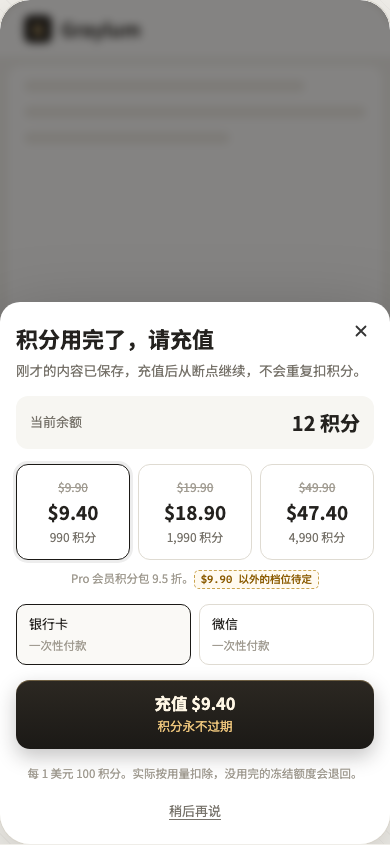
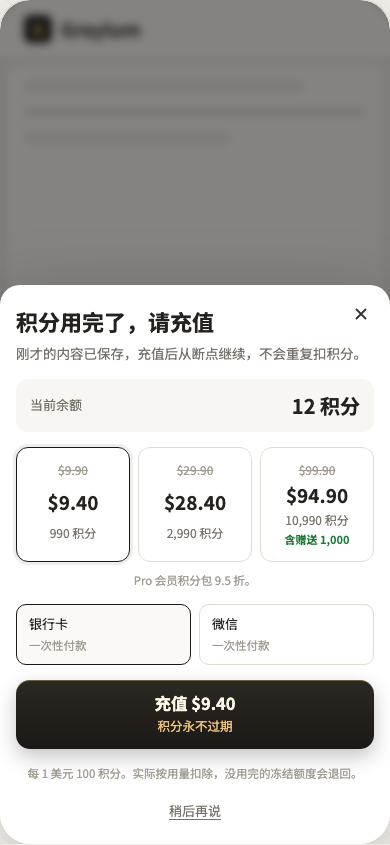
docs(plan): 付费墙定稿更新为 v23，写入积分包三档和注册赠送（记录 S、T）
- paywall-final-v21.html 改名为 v23 并替换为 v23 内容（版本号 1791122683-97ab）
- 按 v23 重拍场景 3（充值）和价格页截图，其余截图沿用 v21
- 第 51 项写入积分包三档、会员价向下取整到 $0.10、注册赠送 500 积分（先定）
- 版本号全部改为 v23；仍待定只剩创始人寄语

diff --git a/docs/launch/design/paywall/paywall-final-v23.html b/docs/launch/design/paywall/paywall-final-v23.html
@@ -249,6 +249,7 @@ button,input,select,textarea{font:inherit}
 .form .fh{margin:6px 0 -2px;padding-top:8px;border-top:1px solid var(--p-line);font-size:12px;font-weight:600;letter-spacing:.04em;color:var(--gold-deep)}
 .form .fh:first-child{border-top:0;padding-top:0;margin-top:0}
 .form .lt{display:block}
+.pk .bonus{font-style:normal;font-size:11px;color:var(--save);font-weight:600}
 .form .share{margin:0;padding:10px 12px;border-radius:10px;background:#f6f3ec;color:#5d584f;font-size:12.5px;line-height:1.6}
 .form i.rq{font-style:normal;color:#c0533a}
 .form i.op{font-style:normal;font-size:11px;font-weight:400;color:var(--p-faint)}
@@ -457,9 +458,9 @@ button,input,select,textarea{font:inherit}
   <header class="top">
     <div>
       <h1>Graylum 付费墙 v2</h1>
-      <p><b>唯一版本来源</b>（取代设计窗口的定稿 QLdBcaYM…，那份留作历史）。八个触发场景，价格都是 Owner 定的实际售价；只有注册赠送积分和 $9.90 以外的积分包档位还是占位。标"待定"的是本轮新提的方案，等 Owner 确认。</p>
+      <p><b>唯一版本来源</b>（取代设计窗口的定稿 QLdBcaYM…，那份留作历史）。八个触发场景，价格都是 Owner 定的实际售价；注册赠送 500 积分、积分包三档已于 10-04 定（实测后可能再调）。标"待定"的是本轮新提的方案，等 Owner 确认。</p>
     </div>
-    <span class="ver">唯一版本 v21 · 更新于 2026-10-04 · 不含产品代码</span>
+    <span class="ver">唯一版本 v23 · 更新于 2026-10-04 · 不含产品代码</span>
   </header>
 
   <div class="controls">
@@ -499,7 +500,7 @@ button,input,select,textarea{font:inherit}
           <tr><td>定位档案</td><td>免费 1 个、Pro 3 个、Gold 6 个。一个档案 = 一个品牌；每个平台挂 1 个账号，平台数不限；降级后超出额度的档案只读。</td></tr>
           <tr><td>工作室版、真人专家咨询</td><td>价格页两张并排的大卡片，写买家关心的事。工作室版 10 个品牌、5 位成员起，上线时只放"联系我们"；专家咨询只做预约入口，Owner 本人做专家，线上远程会议 $300/小时起，会员不打折，咨询费用 Stripe 或线下收。</td></tr>
           <tr><td>不做</td><td>7 天退款保证、假原价、会重置的倒计时、虚构的用户数或效果承诺。</td></tr>
-          <tr><td>仍是占位</td><td>注册赠送积分、积分包 $9.90 以外的档位。</td></tr>
+          <tr><td>注册赠送 / 积分包档位（10-04 定）</td><td>注册送 500 积分。积分包三档：$9.90 / 990 积分、$29.90 / 2,990 积分、$99.90 / 9,990 + 赠送 1,000 = 10,990 积分；会员折扣打在价格上，折后价向下抹到角（如 $9.41 收 $9.40）。开发完成后 Owner 实测再决定是否调整。</td></tr>
         </tbody>
       </table></div>
     </div>
@@ -791,14 +792,14 @@ function midway(){
 
 /* scene 3: member out of credits */
 function topup(){
-  const off=PACK_OFF[S.tier], base=[[9.9,990],[19.9,1990],[49.9,4990]];
-  const packs=base.map(([p,c])=>[p,+(p*off).toFixed(2),c]);
+  const off=PACK_OFF[S.tier], base=[[9.9,990,0],[29.9,2990,0],[99.9,9990,1000]];
+  const packs=base.map(([p,c,b])=>[p,Math.floor(p*off*10+1e-6)/10,c+b,b]);
   if(S.paid) return narrow(`<div class="done"><span class="ok">${IC.ck('#2f6a3b')}</span><h3 id="dlg-t">+${num(packs[S.pack][2])} 积分已到账</h3><p>可以接着刚才的内容继续了。</p></div><button class="cta" type="button" data-close><b>继续</b><span>回到刚才的位置</span></button>`);
   return narrow(`<h2 id="dlg-t">积分用完了，请充值</h2>
     <p class="lede">刚才的内容已保存，充值后从断点继续，不会重复扣积分。</p>
     <div class="bal"><span>当前余额</span><b>12 积分</b></div>
-    <div class="packs" role="radiogroup" aria-label="积分包">${packs.map(([p,now,c],i)=>`<label class="pk"><input type="radio" name="pack" id="pk-${i}" value="${i}" ${S.pack===i?'checked':''}><s>${money(p)}</s><b>${money(now)}</b><span>${num(c)} 积分</span></label>`).join('')}</div>
-    <p class="fine" style="margin-top:-6px">${S.tier==='gold'?'Gold 会员积分包 9 折':'Pro 会员积分包 9.5 折'}。<span class="chip">$9.90 以外的档位待定</span></p>
+    <div class="packs" role="radiogroup" aria-label="积分包">${packs.map(([p,now,c,b],i)=>`<label class="pk"><input type="radio" name="pack" id="pk-${i}" value="${i}" ${S.pack===i?'checked':''}><s>${money(p)}</s><b>${money(now)}</b><span>${num(c)} 积分${b?`<br><em class="bonus">含赠送 ${num(b)}</em>`:''}</span></label>`).join('')}</div>
+    <p class="fine" style="margin-top:-6px">${S.tier==='gold'?'Gold 会员积分包 9 折':'Pro 会员积分包 9.5 折'}。</p>
     <div class="pay" role="radiogroup" aria-label="付款方式"><label><input type="radio" name="tpay" id="tp-card" value="card" checked>银行卡<small>一次性付款</small></label><label><input type="radio" name="tpay" id="tp-wx" value="wx">微信<small>一次性付款</small></label></div>
     <button class="cta" type="button" id="paynow"><b>充值 ${money(packs[S.pack][1])}</b><span>积分永不过期</span></button>
     <p class="fine">每 1 美元 100 积分。实际按用量扣除，没用完的冻结额度会退回。</p>
@@ -957,7 +958,7 @@ function pricing(){
     </div>
     <div class="bill" role="radiogroup" aria-label="计费周期"><label><input type="radio" name="pbill" id="pb-m" value="month" ${!y?'checked':''}>月付</label><label><input type="radio" name="pbill" id="pb-y" value="year" ${y?'checked':''}>年付 <span class="save">${yearBadge()}</span></label></div>
     <div class="tiers">
-      <div class="tier"><h3>免费</h3><p class="who">先体验，看看它懂不懂你</p><div class="pr"><b>$0</b></div><div class="was">注册即送体验积分 <span class="chip">数量待定</span></div>
+      <div class="tier"><h3>免费</h3><p class="who">先体验，看看它懂不懂你</p><div class="pr"><b>$0</b></div><div class="was">注册即送 500 积分</div>
         <h4>可以做</h4><ul><li>${IC.ck()}<span>做完报告前的全部定位步骤</span></li><li>${IC.ck()}<span>查看、导出已确认的定位信息</span></li><li>${IC.ck()}<span>1 个定位档案</span></li><li>${IC.ck()}<span>客服 48 小时内回复</span></li></ul>
         <h4>不包含</h4><ul><li class="no">${IC.dash()}<span>完整运营策略报告</span></li><li class="no">${IC.dash()}<span>购买积分包</span></li><li class="no">${IC.dash()}<span>多模型专家评审团</span></li></ul>
         <button class="btn" type="button">免费开始</button></div>

diff --git a/docs/launch/MASTER_PLAN.md b/docs/launch/MASTER_PLAN.md
@@ -402,7 +402,7 @@
         - **FUSION-COMPARE**：对比默认勾选、用户可改、最少勾选数参数。
         - **不对应开发任务**：默认 m=6 是后台配置修改，执行前另获 Owner 批准（第 39 项的做法）；会员余额不足时的暂停和继续沿用 BILL-PAYG；积分不过期和退款规则沿用现有规则；取消封闭内测体现在第 7.2、7.4 节的排期里，发布仍走 V3-M3 → REL-1；首发目标用户用于宣传和落地页文案。
 
-51. **定价、付费墙细则和定位档案数量**（Owner 2026-10-04；#618 合并后由总控记在 #618 评论里，每条都附原话，下文按"记录 X"引用）。多数决定是 Owner 在定价策略审阅窗口做的、由该窗口转述原话，记录 J、M、N、O 是 Owner 在总控窗口的原话；记录 P 是总控对 Owner 更正的整理，评论里没有附原话；记录 Q 是定价窗口逐字转述的原话，记录 R 是 Owner 在总控窗口的确认。同一事项前后不一致时以较晚的记录为准，下面逐条注明被取代的写法。付费墙设计的唯一依据是仓库里的 [`docs/launch/design/paywall/`](design/paywall/README.md)：Owner 定稿的 v21（artifact `MW9Ja3xTfLNbzraTudi2X7` 第 32 版，版本号 `1791121307-3d47`；2026-10-04 导出的 HTML 和 9 个场景的桌面、手机截图），README 记有场景清单、Owner 的文案规则和仍待定的事项；artifact 只是来源，实施以仓库里的导出为准。原 PAYWALL-DESIGN 定稿 `QLdBcaYMUSRQHa1YPQa2VQ` 只留作历史，不再作为实施依据（记录 M）。本项只改规划；staging 和正式环境的价格、套餐、积分包、会员权限和 Waffo 产品配置，实际修改前仍须 Owner 另行批准。
+51. **定价、付费墙细则和定位档案数量**（Owner 2026-10-04；#618 合并后由总控记在 #618 评论里，每条都附原话，下文按"记录 X"引用）。多数决定是 Owner 在定价策略审阅窗口做的、由该窗口转述原话，记录 J、M、N、O 是 Owner 在总控窗口的原话；记录 P 是总控对 Owner 更正的整理，评论里没有附原话；记录 Q 是定价窗口逐字转述的原话，记录 R 是 Owner 在总控窗口的确认；记录 S、T 是定价窗口逐字转述的原话。同一事项前后不一致时以较晚的记录为准，下面逐条注明被取代的写法。付费墙设计的唯一依据是仓库里的 [`docs/launch/design/paywall/`](design/paywall/README.md)：Owner 定稿的 v23（artifact `MW9Ja3xTfLNbzraTudi2X7` 第 34 版，版本号 `1791122683-97ab`，[记录 T](https://github.com/Crnobog9527/GraylumAI_vercel/pull/618#issuecomment-5980843167)；2026-10-04 导出的 HTML 和 9 个场景的桌面、手机截图，其中场景 3 和价格页按 v23 重拍，其余截图来自 v21，v22、v23 只改了这两处），README 记有场景清单、Owner 的文案规则和仍待定的事项；artifact 只是来源，实施以仓库里的导出为准。原 PAYWALL-DESIGN 定稿 `QLdBcaYMUSRQHa1YPQa2VQ` 只留作历史，不再作为实施依据（记录 M）。本项只改规划；staging 和正式环境的价格、套餐、积分包、会员权限和 Waffo 产品配置，实际修改前仍须 Owner 另行批准。
 
     记录出处（均为 [#618](https://github.com/Crnobog9527/GraylumAI_vercel/pull/618) 的总控评论，按时间）：
     [B 门槛原则](https://github.com/Crnobog9527/GraylumAI_vercel/pull/618#issuecomment-5971895597)、
@@ -421,7 +421,9 @@
     [O 创始价取整](https://github.com/Crnobog9527/GraylumAI_vercel/pull/618#issuecomment-5976467607)、
     [P 创始价更正和报告改名](https://github.com/Crnobog9527/GraylumAI_vercel/pull/618#issuecomment-5979988044)、
     [Q v21 定稿中的其余决定](https://github.com/Crnobog9527/GraylumAI_vercel/pull/618#issuecomment-5980762284)、
-    [R 创始会员徽章和专家授权](https://github.com/Crnobog9527/GraylumAI_vercel/pull/618#issuecomment-5980780017)。
+    [R 创始会员徽章和专家授权](https://github.com/Crnobog9527/GraylumAI_vercel/pull/618#issuecomment-5980780017)、
+    [S 积分包三档和注册赠送](https://github.com/Crnobog9527/GraylumAI_vercel/pull/618#issuecomment-5980831854)、
+    [T 积分包会员价抹掉分位](https://github.com/Crnobog9527/GraylumAI_vercel/pull/618#issuecomment-5980843167)。
     合并记录（[A](https://github.com/Crnobog9527/GraylumAI_vercel/pull/618#issuecomment-5970619921)）另记 Owner 确认积分有效期维持原规则：积分永不过期，只有会员等级会过期。
 
     Owner 原话（摘录，完整原话见各记录）：
@@ -456,6 +458,10 @@
 
     > 后端是没有这个同意开关的。 暂时所有用户的数据只能由他导出来，然后给我们才能看。（记录 Q）
 
+    > 积分包就按你的建议设三档。然后注册先定送 500 积分。（记录 S）
+
+    > 积分包折扣以后的价格，四舍五入向下归零。9.41 就收 9.4，8.91 就收 8.9。好吧，最后那一分钱就不要了。（记录 T）
+
     整理（总控记录和唯一来源设计稿的含义，不是 Owner 原话）：
 
     - **月付**（记录 F）：Pro $29/月、Gold $69/月，这是实际售价。每月积分 = 售价 × 每美元积分：Pro 3,480（×120）、Gold 8,970（×130）。取代第 50 项"数值怎么定"中"月价 = 实测用量 ÷ 每美元积分"的算法。
@@ -467,6 +473,16 @@
     - **不做的营销手法**（记录 E、F）：不提供 7 天退款保证（沿用"默认不退款、可人工例外"）；不做"抬高原价再打折"，不做会重置的倒计时；紧迫感只来自真实名额，以及年付划掉月付 × 12 的真实价格。如果做倒计时，只能对应一个真实、固定的截止时间。
     - **续费说明和弹窗**（记录 E、G；唯一来源设计稿）：每个付款按钮旁写首期价、之后的续费价和周期、怎么取消。付费墙的各个触发场景都用弹窗（价格页是独立页面）；弹窗默认选中月付。
     - **积分包**（记录 B、C、J；第 50 项其余规则不变）：只卖给会员，每 1 美元 100 积分，最小 $9.90。无论买多少次积分包，系统都不提示升级会员，取消第 50 项"Pro 一个月买 2 次以上积分包时提示 Gold"。会员买积分包打折（[记录 Q](https://github.com/Crnobog9527/GraylumAI_vercel/pull/618#issuecomment-5980762284)）：Pro 会员 9.5 折、Gold 会员 9 折；取代"Gold 积分包折扣比例等算完成本再定"（9 折在记录 B 提示的约 23% 上限之内）。
+    - **积分包三档和注册赠送**（[记录 S](https://github.com/Crnobog9527/GraylumAI_vercel/pull/618#issuecomment-5980831854)、[记录 T](https://github.com/Crnobog9527/GraylumAI_vercel/pull/618#issuecomment-5980843167)；先定，Owner 在开发完、实测积分消耗后再决定要不要调整加价倍数、积分包和注册赠送；定价窗口提过的调整办法 Owner 都还没有定，不作为决定）：
+
+        | 档位 | 原价 | 积分 | Pro 会员（9.5 折） | Gold 会员（9 折） |
+        | --- | --- | --- | --- | --- |
+        | 小 | $9.90 | 990 | $9.40 | $8.90 |
+        | 中 | $29.90 | 2,990 | $28.40 | $26.90 |
+        | 大 | $99.90 | 9,990 + 赠送 1,000 = 10,990 | $94.90 | $89.90 |
+
+        积分按原价每 1 美元 100 积分；会员折扣打在价格上，会员价 = 原价 × 折扣，向下取整到 $0.10（记录 T；取代记录 S 的"四舍五入到分"，记录 S 表中的 $9.41 / $8.91 等价格已由记录 T 取代）；只有大档有赠送。每一档的积分单价都比订阅贵（最便宜的 Gold 买大档约 $8.18/千积分，Gold 订阅约 $7.69/千积分），毛利约 72%–77%，是定价窗口的估算。
+        注册赠送 500 积分（记录 S），取代"数量待定"和第 50 项"开户赠送 = Owner 实测后按公式定"；staging 迁移 0151 现在写死的是 100，改成 500 要走单独的数据库迁移（high），合并前需要 Owner 批准。
     - **客服响应时效**（[记录 Q](https://github.com/Crnobog9527/GraylumAI_vercel/pull/618#issuecomment-5980762284)）：免费 48 小时内、Pro 24 小时内、Gold 工作时间内 2 小时内回复。
     - **Gold 优先内测**（[记录 Q](https://github.com/Crnobog9527/GraylumAI_vercel/pull/618#issuecomment-5980762284)）：Gold 会员优先体验内测中的新功能。
     - **多平台发布和数据监控提前到上线前**（[记录 Q](https://github.com/Crnobog9527/GraylumAI_vercel/pull/618#issuecomment-5980762284)）：上线前接入 Post for Me（海外 9 个平台，第 52 项），上线多平台发布和数据监控，并按会员档位区分：Pro 有一键发布和自己作品近 30 天的数据；Gold 另加对标账号监控、90 天趋势、每周自动复盘；两档都按积分计费、不限条数。**这改变了 D1 的上线范围**（第 10 节 D1），由新任务 PUBLISH-MONITOR 负责（第 7.1 节）。
@@ -475,7 +491,7 @@
     - **多模型专家评审团**（记录 D、E、J）：Fusion 对外改名"多模型专家评审团"，产品内部仍叫 Fusion。评审和对比两种模式都只给 Gold，免费和 Pro 都不能用，取代 D4 里"Pro：评审和对比两种模式都能用"。对外只标"Gold 专属"，不用"只有 Gold 能用"的说法；宣传和付费墙要突出它的优势。价格页、方案卡和弹窗里的"报告评审"按评审模式的后台实际开关自动显示或隐藏（D12：实测不通过就关闭上线），"多模型对比"同样跟随对比开关。ENTITLEMENTS 的默认值（`allow_fusion_review`、`allow_fusion_compare`）在实施时相应调整，实际修改配置前单独批准。
     - **报告对外名称**（记录 P）：报告对外改叫"运营策略报告"，取代"定位报告"。只改对外名称和界面文案，不改代码标识符。
     - **只显示已上线的功能**（记录 J）：价格页、方案卡和弹窗的功能行跟随后台开关自动显示或隐藏；资料库上传上线前不显示资料库容量。
-    - **Pro 中途升 Gold**（[记录 Q](https://github.com/Crnobog9527/GraylumAI_vercel/pull/618#issuecomment-5980762284)，取代记录 J"差价交给 Waffo 支付任务定"）：不退差价（订阅本质上是更便宜的积分，Pro 当期积分已经到账、照样能用）；升级后往账上再发 8,970 积分，并立即升级为 Gold 权益。付款按 Gold 的价格（第一次买 Gold 享首月 $49，设计稿 v21）。这条规则已由 Owner 定，PAY-WAFFO 按它实施；只有升级时计费周期怎么衔接（是否重置续费日）由 PAY-WAFFO 方案提出、Owner 批准后实施。
+    - **Pro 中途升 Gold**（[记录 Q](https://github.com/Crnobog9527/GraylumAI_vercel/pull/618#issuecomment-5980762284)，取代记录 J"差价交给 Waffo 支付任务定"）：不退差价（订阅本质上是更便宜的积分，Pro 当期积分已经到账、照样能用）；升级后往账上再发 8,970 积分，并立即升级为 Gold 权益。付款按 Gold 的价格（第一次买 Gold 享首月 $49，设计稿 v21 起）。这条规则已由 Owner 定，PAY-WAFFO 按它实施；只有升级时计费周期怎么衔接（是否重置续费日）由 PAY-WAFFO 方案提出、Owner 批准后实施。
     - **模型**：不变。模型按用途在后台配置，不按会员档位区分，输入框模型位置只显示 Auto（第 50 项）。
     - **定位档案数量**（记录 B、K）：免费 1 个、Pro 3 个、Gold 6 个；取代记录 B 的"会员不限、只留系统防滥用上限"。一个档案对应一个品牌，即现有的 `opc_businesses`；同一品牌下的定位版本、历史和报告不另算。每个档案在每个平台最多挂 1 个账号，平台数不限；实施时在 `opc_accounts` 现有的 `UNIQUE(actor_id, platform, account_key)` 之外，加"每个业务每个平台 1 个"的约束，新建档案时可以先不挂账号，挂上后锁定在这个档案。只计正在用的档案，删除后释放名额；现在没有业务级的删除或归档功能，由 PAYWALL 补上"删除或归档定位档案并释放名额"（删除遵守 DATA-ERASURE 的保留规则；技术建议用归档：归档后只读、可导出、不占名额，具体由 PAYWALL 方案定）。服务端在新建业务时检查（现在 `opc.start` 每次都新建业务，没有任何上限）；数量检查和插入 `opc_businesses` 要在同一个按用户加锁的数据库事务里完成（现有 `opc_start_b1` 插入不按用户串行，只先查数量会被并发请求同时越过），属于高风险迁移。会员到期或降级后，超出额度的档案改为只读（可看、可导出），由用户自己选哪几个继续可用。接受"在同一档案里反复改写"这个残余漏洞，不做内容检测。
     - **工作室版**（记录 K、L）：方向同意。上线时价格页只放"联系我们"入口，由 Owner 手动接单，超出额度的客户在后台单独调高上限；团队功能上线后再开发。方向是：10 个品牌起、5 位成员起，可以按需增加席位（[记录 Q](https://github.com/Crnobog9527/GraylumAI_vercel/pull/618#issuecomment-5980762284)，取代"20 个档案起"）；团队共享积分池，按成员和客户统计用量；按客户隔离资料库、文风和报告；报告可换成工作室品牌导出；客户不用注册就能看的只读分享链接；含多模型专家评审团；优先支持；按量计价，单价更低。不定公开价格，按 B 端用户的用量灵活报价（[记录 Q](https://github.com/Crnobog9527/GraylumAI_vercel/pull/618#issuecomment-5980762284)；记录 L 的 $199/月、每美元 140 积分作废）。
@@ -485,7 +501,7 @@
     - **Waffo 实施做法**（记录 I，定价窗口的建议，PAY-WAFFO 实施时核实）：Waffo 后台没有优惠券功能，按价格分别建 Waffo 产品：Gold 月付新用户（首期 $49、之后 $69）、Gold 月付正价 $69、微信一次性 1 个月 Gold 新用户 $49 和正价 $69、Gold 创始会员年付（首年 $496，续费按续费时 Gold 月付 12 个月价格的 6 折，不写死，记录 P），其余按原计划。Waffo 订阅文档写明支持"前 N 期特价、之后自动恢复原价"，具体配置位置和创始会员的长期折扣价能否设置，在 PAY-WAFFO 中核实（Owner 在后台找或问 Waffo）。由服务端选择产品，前端只显示服务端返回的价格；为防止注销后重新注册或并发结账重复领 $49：0151 的身份摘要（`opening_grant_identity_digests`，`purpose` 只允许 `opening_grant`）只记录开户赠送的判定，不能用来判断是否买过 Gold，不直接复用；PAY-WAFFO 扩展同一套身份摘要机制，新增 Gold 专属的权威事实（例如 `purpose=gold_first_purchase`），具备原子的预留和认领语义，属于 high 迁移。首月优惠的预留同样按结账会话幂等记录；只有 Waffo 权威确认该会话已关闭或已过期才释放（[PAY-COMMON 实施说明](tasks/PAY-COMMON.md)第 7 节"幂等"行）；预留有效期内到达的成功付款兑现 $49；释放之后才到达的成功付款不自动给首月价，按 PAY-COMMON 冲突回执的口径进入人工复核；同一用户在预留有效期内重新打开结账，复用同一预留，不因为自己放弃结账而失去资格。在 Waffo 后台建产品由 Owner 自己操作，实际配置前需要单独批准。
     - **定价窗口的毛利估算**（记录 F，按积分全部用完估算，仅供参考）：月付约 74%，Pro 年付约 71%，Gold 年付约 67%，创始会员按 $496 估算约 60%（[记录 Q](https://github.com/Crnobog9527/GraylumAI_vercel/pull/618#issuecomment-5980762284)：定价窗口按积分全部用完、6 倍加价、Waffo 手续费 3.9% + $0.50 估算，不是 Owner 给的数字；取代按已作废的 $372.60 估算的约 48%）。
     - **待观察**（记录 B）：限流（每天 200 条新消息、600 次调用，所有档位一样）可能卡住重度付费用户；上线后看数据，再考虑是否按档位放宽。现在不改。
-    - **仍待定**（唯一来源设计稿和 [记录 Q](https://github.com/Crnobog9527/GraylumAI_vercel/pull/618#issuecomment-5980762284)）：注册赠送积分、积分包 $9.90 以外的档位、创始人寄语；前两项由 PAYWALL 实施时按实测定，定值和配置修改仍须 Owner 批准。其余待定事项见[设计稿 README](design/paywall/README.md)。邀请奖励 50/30 按 m=6 复核（第 50 项）不变。
+    - **仍待定**（唯一来源设计稿和 [记录 Q](https://github.com/Crnobog9527/GraylumAI_vercel/pull/618#issuecomment-5980762284)）：创始人寄语。注册赠送和积分包档位已由 [记录 S](https://github.com/Crnobog9527/GraylumAI_vercel/pull/618#issuecomment-5980831854) 先定，实际写入配置仍须 Owner 批准。其余待定事项见[设计稿 README](design/paywall/README.md)。邀请奖励 50/30 按 m=6 复核（第 50 项）不变。
     - **实施分工**（第 7.1 节；每条只由一个任务负责）：
         - **PAYWALL**：本项的价格展示和弹窗规则（美元显示、年付省多少、续费说明、默认月付、首月和创始会员的展示、真实剩余名额、只显示已上线功能、评审行跟随开关、对比文案、不提示升级、充值后手动继续、积分包会员折扣、客服时效和 Gold 优先内测的展示）；定位档案上限（会员权益加"定位档案上限"字段、服务端新建业务检查、每个业务每个平台 1 个账号的约束、降级后只读）；Fusion 默认权限按 Gold 专属调整；工作室版"联系我们"入口。代码实施等 Owner 调整后的预览版。
         - **PAY-WAFFO**（PAY-COMMON 之后）：按价格分建 Waffo 产品；首月资格和创始名额的服务端判断与计数；微信一次性与银行卡同价；Pro 升 Gold 按记录 Q 实施（不退差价、补发 8,970 积分、立即升级权益）；"前 N 期特价"和创始长期折扣的 Waffo 能力核实。
@@ -524,7 +540,7 @@
 | Pro 一个月买 2 次以上积分包时提示 Gold 更划算 | 第 2.1 节第 50 项"其他付费提示""实施分工"；第 7.1 节 PAYWALL 行 | 由第 2.1 节第 51 项取代（[记录 C](https://github.com/Crnobog9527/GraylumAI_vercel/pull/618#issuecomment-5972054913)）：无论买多少次积分包，系统都不提示升级会员 |
 | 会员不限定位档案数，只留系统防滥用上限 | [记录 B](https://github.com/Crnobog9527/GraylumAI_vercel/pull/618#issuecomment-5971895597)；PAYWALL-DESIGN 旧定稿文案 | 由第 2.1 节第 51 项取代（[记录 K](https://github.com/Crnobog9527/GraylumAI_vercel/pull/618#issuecomment-5972689626)）：免费 1、Pro 3、Gold 6；降级后超出额度的档案只读 |
 | Gold 新用户首月 8 折 $55.20；对比文案的各版草稿（MarketerHire、Sprout Social、"请人做社交媒体运营"） | [记录 E](https://github.com/Crnobog9527/GraylumAI_vercel/pull/618#issuecomment-5972167876)、[记录 F](https://github.com/Crnobog9527/GraylumAI_vercel/pull/618#issuecomment-5972366406)、[记录 G](https://github.com/Crnobog9527/GraylumAI_vercel/pull/618#issuecomment-5972469380)、[记录 J](https://github.com/Crnobog9527/GraylumAI_vercel/pull/618#issuecomment-5972539553) | 由第 2.1 节第 51 项取代：首月 $49（[记录 H](https://github.com/Crnobog9527/GraylumAI_vercel/pull/618#issuecomment-5972485899)）；对比文案以 HawkSEM 版定稿（[记录 N](https://github.com/Crnobog9527/GraylumAI_vercel/pull/618#issuecomment-5972956845)） |
-| PAYWALL-DESIGN 定稿 artifact `QLdBcaYMUSRQHa1YPQa2VQ` 作为付费墙设计依据 | 设计窗口定稿 | 由第 2.1 节第 51 项取代（[记录 M](https://github.com/Crnobog9527/GraylumAI_vercel/pull/618#issuecomment-5972835435)）：唯一依据是仓库里导出的 v21（[`docs/launch/design/paywall/`](design/paywall/README.md)，来源 artifact `MW9Ja3xTfLNbzraTudi2X7`），旧定稿留作历史 |
+| PAYWALL-DESIGN 定稿 artifact `QLdBcaYMUSRQHa1YPQa2VQ` 作为付费墙设计依据 | 设计窗口定稿 | 由第 2.1 节第 51 项取代（[记录 M](https://github.com/Crnobog9527/GraylumAI_vercel/pull/618#issuecomment-5972835435)）：唯一依据是仓库里导出的 v23（[`docs/launch/design/paywall/`](design/paywall/README.md)，来源 artifact `MW9Ja3xTfLNbzraTudi2X7`），旧定稿留作历史 |
 | 创始会员 $372/年（以及 $372.60），第一年和续费都按这个价 | 第 2.1 节第 51 项旧写法；[记录 O](https://github.com/Crnobog9527/GraylumAI_vercel/pull/618#issuecomment-5976467607) | 由第 2.1 节第 51 项取代（[记录 P](https://github.com/Crnobog9527/GraylumAI_vercel/pull/618#issuecomment-5979988044)）：首年 $496（$828 的 6 折取整）；续费按续费时 Gold 月付 12 个月价格的 6 折，不写死；年付标签"最高省 40% / 25%"按名额和付款方式切换 |
 | 报告对外叫"定位报告" | 第 2.1 节第 51 项、第 7.1 节 EXPERT-CONSULT 行旧写法 | 由第 2.1 节第 51 项取代（[记录 P](https://github.com/Crnobog9527/GraylumAI_vercel/pull/618#issuecomment-5979988044)）：对外名称"运营策略报告"；代码标识符不改 |
 | 第三方数据每类只有一家、没有备用线路 | 第 3.7 节；D13；[RESEARCH-TOOLS 实施说明](tasks/RESEARCH-TOOLS.md) | 由第 2.1 节第 52 项取代：Bright Data 作为备用渠道（主要海外平台），Facebook 公开数据由 Bright Data 抓取；接入前实测和条款核对 |
@@ -532,6 +548,7 @@
 | 专家咨询勾选"同意专家查看我的报告"（只授权给这一位专家，可撤回） | 第 2.1 节第 51 项、第 7.1 节 EXPERT-CONSULT 行旧写法；[记录 L](https://github.com/Crnobog9527/GraylumAI_vercel/pull/618#issuecomment-5972732100) | 由第 2.1 节第 51 项取代（[记录 Q](https://github.com/Crnobog9527/GraylumAI_vercel/pull/618#issuecomment-5980762284)、[记录 R](https://github.com/Crnobog9527/GraylumAI_vercel/pull/618#issuecomment-5980780017)）：不做授权开关，资料由用户自己导出后发来；授权查看功能上线时不做 |
 | 创始会员毛利约 48%（按 $372.60）；以及"由总控转述"的约 60% | 第 2.1 节第 51 项旧写法 | 由第 2.1 节第 51 项取代：按 $496 估算约 60%，出处为 [记录 Q](https://github.com/Crnobog9527/GraylumAI_vercel/pull/618#issuecomment-5980762284)（定价窗口估算，不是 Owner 给的数字） |
 | Gold 积分包折扣比例等算完成本再定 | 第 2.1 节第 51 项旧写法；第 10 节"定价占位值" | 由第 2.1 节第 51 项取代（[记录 Q](https://github.com/Crnobog9527/GraylumAI_vercel/pull/618#issuecomment-5980762284)）：Pro 会员 9.5 折、Gold 会员 9 折 |
+| 开户赠送 = Owner 实测后按公式定；积分包 $9.90 以外的档位待定；积分包会员价四舍五入到分 | 第 2.1 节第 50 项"数值怎么定"；第 51 项旧写法；记录 S | 由第 2.1 节第 51 项取代（[记录 S](https://github.com/Crnobog9527/GraylumAI_vercel/pull/618#issuecomment-5980831854)、[记录 T](https://github.com/Crnobog9527/GraylumAI_vercel/pull/618#issuecomment-5980843167)）：注册赠送 500 积分；积分包三档 $9.90 / $29.90 / $99.90；会员价向下取整到 $0.10；均为先定，实测后可能调整 |
 | Pro 升 Gold 差价交给 PAY-WAFFO 方案提出、Owner 批准 | 第 2.1 节第 51 项旧写法；[记录 J](https://github.com/Crnobog9527/GraylumAI_vercel/pull/618#issuecomment-5972539553)；第 10 节待定表 | 由第 2.1 节第 51 项取代（[记录 Q](https://github.com/Crnobog9527/GraylumAI_vercel/pull/618#issuecomment-5980762284)）：不退差价，补发 8,970 积分并立即升级为 Gold 权益 |
 | D1：社媒同步等放到上线后（多平台发布和数据监控不在上线范围） | 第 10 节 D1 | 由第 2.1 节第 51 项变更（[记录 Q](https://github.com/Crnobog9527/GraylumAI_vercel/pull/618#issuecomment-5980762284)）：多平台发布和数据监控提前到上线前（PUBLISH-MONITOR），其余后续阶段不变 |
 | "不影响没有 Fusion 权限的用户走普通定位到报告；升级提示不能成为定位流程的必经步骤" | [ENTITLEMENTS 实施说明](tasks/ENTITLEMENTS.md)第 180 行 | 由第 2.1 节第 50 项取代：生成报告必须是付费会员；免费用户可做完报告前的全部步骤，已确认的前置信息可看、可导出、不收回。Fusion 权限部分不变 |
@@ -1038,7 +1055,7 @@ v10.2 的"Gold 多模型智囊团"（任务 `V3-GOLD`）由本节取代，任务
 | | CI-TRUST | 其余部分：ESLint 覆盖 TS/TSX；网站单测统一入口；API 独立类型检查；删除 `@repo/ui` 空壳和未接入的 ESLint 配置包；依赖升级机器人改发到 staging 并清理指向 `main` 的旧升级 PR（第 8.4 节第 1–3 项）。**已完成**（#511、#512、#523，2026-09-29—30） | — | 高 | 中 / 3–4 |
 | | DEBT-QUICK | 第 8.3 节第 2 项的快速清理（只含普通改动）；关闭已解决和已废弃的问题单（第 8.4 节第 4–5 项）。**部分完成**：#482、#483、#558、#607（诊断结论修正、删除旧 `services/promptCache.ts`）已合并；第 8.4 节第 4–5 项的问题单已全部是关闭状态（#607 核对，本次 `gh issue view` 复核）。剩余 `costCalculator.ts`、`streamHandler.ts`：要改被 #603 占用的 ESLint 基线，待 #603 合并后删除（第 8.2 节） | — | 普通 | 小 / 剩余 1 |
 | **2 上线基础** | RUNTIME-PROD | 正式环境真实调用模型：① 模型报价的审批和开放机制；② BILL-UNIT 落实 q=100、默认倍数（2026-10-03 起为 m=6，第 50 项；BILL-UNIT 交付时为 3）与按模型/线路倍数，美元统一成本、调用时冻结（第 11、32–34 项、D16）；③ 后台界面；④ 由 BILL-PAYG 实现逐次冻结与实际结算（第 2.1 节第 26–27 项），可用余额低于按模型/用途配置的 L 时在两步之间暂停、充值续接、余额不为负，超出本次冻结额由平台承担；收费模型准入及超额对账见同两项；普通调用和 Fusion 共用基础机制，Fusion 多模型上界定义前不放行，评审运行前预告保持不变；⑤ 止损：每个用户每日上限、全站每日成本上限和告警、供应商余额告警、一键停止新调用的开关；⑥ 理清 `provider` 字段语义；⑦ 数据不用于训练由服务端强制：正式环境所有模型调用都发送 OpenRouter 的 `data_collection: deny`，只批准支持该设置的供应商线路，准入时拒绝不满足的线路；是否额外要求零数据保留（`zdr`）在实施时核对供应商能力后决定（DATA-ERASURE E10 已决定非 ZDR 线路可以启用；第 ⑦ 项本身是否保留待 Owner 确认，见第 10 节"待确认事项"）。验收包括一次有上限的真实小额对账。2026-10-03 状态：② 已由 BILL-UNIT #565 完成；① 的价格读取与准入检查由 MODEL-PRICING-SYNC 完成，正式环境按第 40 项价格全自动；④ 的 BILL-PAYG 方案已定稿待实施（收费基准为名义费用，第 41 项）；⑤ 中"一键停止新调用的开关"已随 RATE-LIMIT #594 交付，其余止损项未做 | ④ 按 BILL-PAYG 行提前实施；其余项依赖 AGENT-CORE 稳定 | 高 | 大 / 4–6 |
-| | BILL-UNIT | **已完成**（[#565](https://github.com/Crnobog9527/GraylumAI_vercel/pull/565)，`7909c118`，0157 已应用）：所有成本统一美元，q=100、交付时默认 m=3（2026-10-03 默认改为 6，第 50 项；修改配置须另获 Owner 批准）；后台按模型设置倍数，未设用默认值；逐调用冻结有效倍数后合计只进位一次（第 32–34 项）。staging 已按 Owner 批准改为 q=100、m=3（第 39 项）。套餐价格和每月积分已由第 51 项定下；开户赠送、$9.90 以外的积分包档位和 Gold 积分包折扣仍待定，邀请奖励按 m=6 复核 | #497、#550（均已合并） | 高 | 已合并 |
+| | BILL-UNIT | **已完成**（[#565](https://github.com/Crnobog9527/GraylumAI_vercel/pull/565)，`7909c118`，0157 已应用）：所有成本统一美元，q=100、交付时默认 m=3（2026-10-03 默认改为 6，第 50 项；修改配置须另获 Owner 批准）；后台按模型设置倍数，未设用默认值；逐调用冻结有效倍数后合计只进位一次（第 32–34 项）。staging 已按 Owner 批准改为 q=100、m=3（第 39 项）。套餐价格和每月积分已由第 51 项定下；开户赠送 500 积分和积分包三档已先定（第 51 项，记录 S、T），邀请奖励按 m=6 复核 | #497、#550（均已合并） | 高 | 已合并 |
 | | PROMPT-CACHE | **上线必做**（Owner 2026-10-01，第 35 项）。**已合并**：方案 #572、实施 #591（冻结前缀与请求缓存，`9600f2bc`）。付费验收 PASS（2026-10-02，v3 测试窗口，八轮 Sonnet 导师对话：缓存标记被 OpenRouter 和 Anthropic 接受，命中轮比不用缓存省 35–56%，八轮合计省 30.8%；执行记录 [5956489014](https://github.com/Crnobog9527/GraylumAI_vercel/pull/591#issuecomment-5956489014)、[5956779675](https://github.com/Crnobog9527/GraylumAI_vercel/pull/591#issuecomment-5956779675)，总控审计 [5956577683](https://github.com/Crnobog9527/GraylumAI_vercel/pull/591#issuecomment-5956577683)、[5956865557](https://github.com/Crnobog9527/GraylumAI_vercel/pull/591#issuecomment-5956865557)）。逐轮扣费当时因财务页问题 BLOCKED，之后由总控在数据库里只读逐轮核对：每个运行单只有一笔消费，等于 ceil(实际费用 × 100 × 3)（[#565 总控审计](https://github.com/Crnobog9527/GraylumAI_vercel/pull/565#issuecomment-5957431423)）。用户收费按名义费用（第 41 项），缓存节省不让给用户 | #497（已合并） | 高（Runtime 调用路径和费用上界） | 已合并，付费验收 PASS |
 | | PROMPT-CACHE-HISTORY | 对话历史也加缓存（Owner 2026-10-03，第 43 项；方案 #601 已合并）：H1 机制 #610 已合并（`7ebef331`，默认不激活），由 CONVERSATION-DRIVEN-CAPTURE B2 激活；这次不做 1 小时缓存；付费实测复用 B2 评测和 B2+F1 验证的预算 | #594（已合并）；激活随 B2 | 高 | H1 已合并，激活待 B2 |
 | | MODEL-PRICING-SYNC | 模型价格从 OpenRouter 自动读取（第 40 项）。**已完成**：方案 #578（D1–D7 按推荐）、价格快照与后台只读显示 #580、准入价格检查与自动重读 #581、C1+C2 联合候选 #597（#596 关闭）。正式环境价格全自动；staging 测试窗口继续锁价 | BILL-UNIT | 高 | 已合并 |
@@ -1067,7 +1084,7 @@ v10.2 的"Gold 多模型智囊团"（任务 `V3-GOLD`）由本节取代，任务
 | | UI-C | 输入框附件 = 上传进资料库再引用（不另建一套上传，只支持 D6 的文档类型） | UI-A、LIB-DOCS、RUNTIME-PROD | 高 | 中 / 2 |
 | | UI-FINISH | 导航、响应式、旧链接迁移、界面全验收（沿用 v11） | UI-B、UI-C | 普通 | 中 / 2–3 |
 | **4 收费和上线** | PAY-COMMON → PAY-WAFFO | 沿用 v11 §9 和第 11 节定义；上线只用 Waffo 收款（Owner 2026-10-03，第 50 项）：银行卡订阅只做月付和年付（不做季度）；微信只支持单笔，用于积分包和一次性会员；不支持支付宝，只用支付宝的用户付不了款；Stripe 不作为上线收款渠道，下面的手动渠道开关只作备用。一次性会员要做：微信单笔购买 1 个月或 1 年会员，期限到期自动失效、不自动续费、到期再买；成为会员后可以买积分包；1 年期积分按 12 个月分期发放；退款按 v11 §9.3 只处理这一期的积分。按 D17，PAY-COMMON 提供后台"新购买使用的渠道"设置（Waffo / Stripe，手动切换），订单记录成交渠道，续费、退款和凭证按原渠道处理。**PAY-COMMON 方案已合并**（[#608](https://github.com/Crnobog9527/GraylumAI_vercel/pull/608)，`6546f27d`；退款衔接 P1 已由 Owner 决定，第 47 项），由同一个 Codex writer 从 PR-1（[#612](https://github.com/Crnobog9527/GraylumAI_vercel/pull/612)，在途）开始实施，每个实施 PR 合并另需 Owner 批准。**PAY-WAFFO 补充（2026-10-04，第 51 项）**：价格 Pro $29/月、$279/年，Gold $69/月、$621/年，微信一次性与银行卡同价；Waffo 没有优惠券，按价格分别建产品（Gold 月付新用户首期 $49 之后 $69、Gold 月付正价、微信 1 个月 Gold 新用户 $49 和正价 $69、Gold 创始会员年付首年 $496、续费按续费时 Gold 月付 12 个月价格的 6 折且不写死，记录 P）；服务端判断首月资格（任何渠道从没买过 Gold，年付和创始会员也算买过；扩展 0151 的身份摘要机制，新增 Gold 专属的权威事实，例如 `purpose=gold_first_purchase`，带原子预留和认领，防注销重注册和并发结账重复领取，high 迁移；不直接复用开户赠送的判定；首月优惠的预留同样按结账会话幂等记录；只有 Waffo 权威确认该会话已关闭或已过期才释放（[PAY-COMMON 实施说明](tasks/PAY-COMMON.md)第 7 节"幂等"行）；预留有效期内到达的成功付款兑现 $49；释放之后才到达的成功付款不自动给首月价，按 PAY-COMMON 冲突回执的口径进入人工复核；同一用户在预留有效期内重新打开结账，复用同一预留，不因为自己放弃结账而失去资格）并选择产品，前端只显示服务端返回的价格；创始会员 50 个名额由服务端计数（结账开始占名额；名额预留按结账会话幂等记录；只有在 Waffo 权威确认该会话已关闭或已过期后才回收名额（关闭页面或本地超时都不算会话结束，[PAY-COMMON 实施说明](tasks/PAY-COMMON.md)第 7 节"幂等"行）；预留有效期内到达的成功付款一律兑现；回收之后才到达的成功付款不自动兑现创始价、不超卖，按 PAY-COMMON 冲突回执的口径进入人工复核；名额计数检查和预留在同一个加锁（或 serializable）的数据库操作里完成，同一买家已有有效预留时复用、不另占名额，验收包括"最后一个名额被多个会话并发抢占时只成功一个"；全额退款放回、主动取消或续费失败不放回），满额后下架换回正价产品；Pro 中途升 Gold **已由 Owner 定（[记录 Q](https://github.com/Crnobog9527/GraylumAI_vercel/pull/618#issuecomment-5980762284)）**：不退差价，按 Gold 价格付款（第一次买 Gold 享首月 $49），补发 8,970 积分并立即升级为 Gold 权益，按此实施（处理 #626 第 6 轮 P1"升级价格要在实施前锁定"）；升级时计费周期怎么衔接（是否重置续费日）由 PAY-WAFFO 方案提出、Owner 批准后实施，这是 PAY-WAFFO 的前置条件；核实 Waffo"前 N 期特价"的配置位置和创始会员长期折扣价能否设置。在 Waffo 后台建产品由 Owner 操作，实际配置前单独批准。**方案必须先解决**（[#626 总控记录](https://github.com/Crnobog9527/GraylumAI_vercel/pull/626#issuecomment-5976838440)，解决前实施 PR 不得合并）：① Gold 首购身份摘要在注销后的保留期限和清理契约，同步修改 DATA-ERASURE，**Gold 购买记录的保留期限由 Owner 在方案阶段确认**；② 创始名额只在权威确认创始合约已取消、不会再续费后才放回，验收覆盖退款、取消、续费竞态（第 51 项） | ENTITLEMENTS（已完成）之后，同一条钱路线；与 Runtime 主线并行（第 46 项）；Pro 升 Gold 规则已由 Owner 定（[记录 Q](https://github.com/Crnobog9527/GraylumAI_vercel/pull/618#issuecomment-5980762284)） | 高 | 大 / 7–10 |
-| | PAYWALL | 第 2.1 节第 50 项的付费墙和积分产品：会员检查只在服务端的报告生成入口和报告调用准入两处；免费用户可以开始带步骤的 Skill，并做完报告前的全部步骤。入口路由（不是付费限制）：带步骤的 Skill 只从自己的入口开始，新对话入口和以后的按意图选 Skill 不加载带步骤的 Skill，参照旧入口的 409；报告模板和写作规则只在报告用途加载，不放进 SKILL.md 和前置步骤资源；积分包只允许会员购买；订阅会员和微信一次性会员都算付费会员（报告门槛和积分包购买一致对待）；开户赠送改为 Owner 实测值（迁移修改 0151 的固定 100）；记录付费墙曝光；按第 50、51 项设定套餐和积分包数值；价格页只写积分和会员权益；（原"Pro 一个月买 2 次以上积分包时提示 Gold"已于 2026-10-04 取消，第 51 项）；会员到期后已生成的报告仍可看、可导出；免费用户的报告前信息导出（已确认、已整理的内容，可以看、可以导出，不收回，不检查会员）——现有导出只在"确认正式定位"发布之后才能用，导出的是由已确认步骤拼成的确定性报告（`workbench.export`，未发布时返回 NOT_PUBLISHED），不覆盖部分步骤已确认的情况；REPORT-GEN 改由模型写报告之后，这条导出路径也不能再代表免费可得的内容。所以要新增一个不依赖报告、不检查会员的前置信息导出，并在 REPORT-GEN 之后保留。**2026-10-04 补充（第 51 项）**：设计以仓库里导出的 v21 为唯一依据（[`docs/launch/design/paywall/`](design/paywall/README.md)，2026-10-04 入库；文案规则和待定事项见其 README）；报告对外叫"运营策略报告"；年付标签"最高省 40% / 25%"按创始名额和付款方式切换；只用美元显示，年付写明比月付 × 12 省多少；付款按钮旁写首期价、续费价、周期和取消方式；付费墙用弹窗、默认选中月付；Gold 新用户首月 $49 和创始会员按服务端返回的价格和真实剩余名额展示；不做假原价、会重置的倒计时和 7 天退款保证；买积分包不提示升级会员；余额不足充值后由用户点"继续"、不显示还差多少积分；只显示已上线的功能，"报告评审"跟随 D12 开关；多模型专家评审团标"Gold 专属"并突出优势，Fusion 默认权限改为只给 Gold（实际修改配置前单独批准）；对比文案用 HawkSEM 定稿版；定位档案上限（免费 1 / Pro 3 / Gold 6；会员权益加"定位档案上限"字段，高风险迁移；服务端在新建业务时检查，数量检查和插入在同一个按用户加锁的数据库事务里完成（高风险迁移），验收包括同一用户用不同请求 id 并发新建时不超过上限；每个业务每个平台 1 个账号的约束；降级后超出额度的档案只读、由用户选哪几个继续可用；新增删除或归档定位档案并释放名额的功能，删除遵守 DATA-ERASURE 的保留规则，建议用归档（只读、可导出、不占名额），验收包括删除或归档后能再新建）；价格页放工作室版"联系我们"入口。积分包会员折扣 Pro 9.5 折、Gold 9 折，客服时效免费 48 / Pro 24 / Gold 工作时间内 2 小时，Gold 优先内测（[记录 Q](https://github.com/Crnobog9527/GraylumAI_vercel/pull/618#issuecomment-5980762284)）；开户赠送、$9.90 以外的积分包档位和创始人寄语仍待定，前两项按实测定。**设计定稿 v21 已于 2026-10-04 入库**（[记录 N](https://github.com/Crnobog9527/GraylumAI_vercel/pull/618#issuecomment-5972956845) 的前提已满足）；代码实施仍须 Owner 选定批次。**方案必须先解决**（[#626 总控记录](https://github.com/Crnobog9527/GraylumAI_vercel/pull/626#issuecomment-5976838440)，解决前实施 PR 不得合并）：工作室版按客户单独覆盖档案上限（有上限范围）和后台入口，或者"联系我们"只收集意向、不承诺额度（第 51 项第 3 条） | REPORT-GEN、BILL-PAYG、PAY-COMMON、PAY-WAFFO（服务端选出的首月价、首月资格和创始名额计数由它提供）、ENTITLEMENTS；付费墙设计定稿已入库（v21，已满足） | 高 | 中 / 2–3 |
+| | PAYWALL | 第 2.1 节第 50 项的付费墙和积分产品：会员检查只在服务端的报告生成入口和报告调用准入两处；免费用户可以开始带步骤的 Skill，并做完报告前的全部步骤。入口路由（不是付费限制）：带步骤的 Skill 只从自己的入口开始，新对话入口和以后的按意图选 Skill 不加载带步骤的 Skill，参照旧入口的 409；报告模板和写作规则只在报告用途加载，不放进 SKILL.md 和前置步骤资源；积分包只允许会员购买；订阅会员和微信一次性会员都算付费会员（报告门槛和积分包购买一致对待）；开户赠送改为 500 积分（[记录 S](https://github.com/Crnobog9527/GraylumAI_vercel/pull/618#issuecomment-5980831854)，迁移修改 0151 的固定 100，high，合并前 Owner 批准）；记录付费墙曝光；按第 50、51 项设定套餐和积分包数值；价格页只写积分和会员权益；（原"Pro 一个月买 2 次以上积分包时提示 Gold"已于 2026-10-04 取消，第 51 项）；会员到期后已生成的报告仍可看、可导出；免费用户的报告前信息导出（已确认、已整理的内容，可以看、可以导出，不收回，不检查会员）——现有导出只在"确认正式定位"发布之后才能用，导出的是由已确认步骤拼成的确定性报告（`workbench.export`，未发布时返回 NOT_PUBLISHED），不覆盖部分步骤已确认的情况；REPORT-GEN 改由模型写报告之后，这条导出路径也不能再代表免费可得的内容。所以要新增一个不依赖报告、不检查会员的前置信息导出，并在 REPORT-GEN 之后保留。**2026-10-04 补充（第 51 项）**：设计以仓库里导出的 v23 为唯一依据（[`docs/launch/design/paywall/`](design/paywall/README.md)，2026-10-04 入库；文案规则和待定事项见其 README）；报告对外叫"运营策略报告"；年付标签"最高省 40% / 25%"按创始名额和付款方式切换；只用美元显示，年付写明比月付 × 12 省多少；付款按钮旁写首期价、续费价、周期和取消方式；付费墙用弹窗、默认选中月付；Gold 新用户首月 $49 和创始会员按服务端返回的价格和真实剩余名额展示；不做假原价、会重置的倒计时和 7 天退款保证；买积分包不提示升级会员；余额不足充值后由用户点"继续"、不显示还差多少积分；只显示已上线的功能，"报告评审"跟随 D12 开关；多模型专家评审团标"Gold 专属"并突出优势，Fusion 默认权限改为只给 Gold（实际修改配置前单独批准）；对比文案用 HawkSEM 定稿版；定位档案上限（免费 1 / Pro 3 / Gold 6；会员权益加"定位档案上限"字段，高风险迁移；服务端在新建业务时检查，数量检查和插入在同一个按用户加锁的数据库事务里完成（高风险迁移），验收包括同一用户用不同请求 id 并发新建时不超过上限；每个业务每个平台 1 个账号的约束；降级后超出额度的档案只读、由用户选哪几个继续可用；新增删除或归档定位档案并释放名额的功能，删除遵守 DATA-ERASURE 的保留规则，建议用归档（只读、可导出、不占名额），验收包括删除或归档后能再新建）；价格页放工作室版"联系我们"入口。积分包会员折扣 Pro 9.5 折、Gold 9 折，客服时效免费 48 / Pro 24 / Gold 工作时间内 2 小时，Gold 优先内测（[记录 Q](https://github.com/Crnobog9527/GraylumAI_vercel/pull/618#issuecomment-5980762284)）；积分包三档和会员价按第 51 项的表（[记录 S](https://github.com/Crnobog9527/GraylumAI_vercel/pull/618#issuecomment-5980831854)、[记录 T](https://github.com/Crnobog9527/GraylumAI_vercel/pull/618#issuecomment-5980843167)），注册赠送 500 积分；创始人寄语仍待定。**设计定稿 v23 已于 2026-10-04 入库**（[记录 N](https://github.com/Crnobog9527/GraylumAI_vercel/pull/618#issuecomment-5972956845) 的前提已满足）；代码实施仍须 Owner 选定批次。**方案必须先解决**（[#626 总控记录](https://github.com/Crnobog9527/GraylumAI_vercel/pull/626#issuecomment-5976838440)，解决前实施 PR 不得合并）：工作室版按客户单独覆盖档案上限（有上限范围）和后台入口，或者"联系我们"只收集意向、不承诺额度（第 51 项第 3 条） | REPORT-GEN、BILL-PAYG、PAY-COMMON、PAY-WAFFO（服务端选出的首月价、首月资格和创始名额计数由它提供）、ENTITLEMENTS；付费墙设计定稿已入库（v23，已满足） | 高 | 中 / 2–3 |
 | | EXPERT-CONSULT | 真人专家诊断的预约入口（第 2.1 节第 51 项，[记录 L](https://github.com/Crnobog9527/GraylumAI_vercel/pull/618#issuecomment-5972732100)、[记录 Q](https://github.com/Crnobog9527/GraylumAI_vercel/pull/618#issuecomment-5980762284)、[记录 R](https://github.com/Crnobog9527/GraylumAI_vercel/pull/618#issuecomment-5980780017)）：放在报告末尾、价格页和工作室版联系入口；只面向已有数据基础的账号，卡片写"预约咨询，免费询价"，不写价格；用户填写需求和联系方式，提交后通知 Owner，由 Owner 线下跟进。不做"同意专家查看报告"的授权开关，资料由用户自己导出后发来；授权查看功能上线时不做。咨询费不进产品结账流程（Stripe 或线下收款，税务由 Owner 处理）。联系方式按个人数据处理，接入账号注销和数据保留规则 | PAYWALL（入口位置）、DATA-ERASURE | 高 | 小 / 1–2 |
 | | PUBLISH-MONITOR | **方向已定、方案待写**（Owner 2026-10-04，第 2.1 节第 51、52 项，[记录 Q](https://github.com/Crnobog9527/GraylumAI_vercel/pull/618#issuecomment-5980762284)）：上线前接入 Post for Me，提供多平台发布和数据监控，海外 9 个平台（TikTok、Instagram、YouTube、Facebook、X、Threads、LinkedIn、Pinterest、Bluesky），用户授权自己的账号。Pro：一键发布 + 自己作品近 30 天数据；Gold：另加对标账号监控、90 天趋势、每周自动复盘；两档都按积分计费、不限条数。**D1 范围变更**：这两项原不在上线范围（第 10 节 D1）。Post for Me 实测和条款核对通过之前，相关功能和说法不上线 | RESEARCH-TOOLS；Post for Me 实测和条款核对（第 52 项）；其余依赖由方案定 | 高 | 待方案 |
 | | LEGACY-CLOSE | 关入口已由 #507 提前完成（2026-09-29）：`/chat` 临时跳转 `/positioning`，`/api/ai/stream` 对新请求返回 410，8 处入口改指或禁用；本任务剩余工作是删除旧代码（`/chat` 页面与组件、`/api/ai/stream`、`modelRouter`、`contextManager`、`agentSlice`、旧 `workbench` 接口等；自研内容检查 `contentModerator.ts`、`aiOutputFilter.ts`、`streamingOutput.ts`，以及它们在 `agentSlice` 和旧 `workbench` 生成里的调用，不单独开任务）和功能对照检查记录。旧检查文件随 LEGACY-CLOSE 删除；删除前核实必要的凭证保护和用户数据隔离不受影响，不要求迁移旧的通用 PII 正则过滤。按 Owner 2026-09-29 决定不再提供旧对话只读查看入口（staging 和正式环境都没有真实用户，上线前清空数据），旧链接直接跳到 `/positioning`；旧对话不迁移、不删除 | AC-4 接管自由对话；入口改指已由 #507 满足；UI-MODEL、UI-B、UI-C、UI-FINISH 已交付；并完成一次功能对照检查（旧 `/chat` 的模型选择、引用、附件和常用操作在新工作区都有对应，或明确记录为不再提供） | 高 | 中 / 3–4 |
@@ -1083,7 +1100,7 @@ P0-1、CI-TRUST-1 ─→ AGENT-CORE（AC-0 → AC-1 → AC-2、AC-3 → AC-5 →
 DATA-ERASURE 删除规则设计 ─→ AC-2
 AGENT-CORE 稳定 ─→ RUNTIME-PROD 其余项（④ 的 BILL-PAYG 按下方主线提前）；MODEL-REASONING、BILL-UNIT、MODEL-PRICING-SYNC 已完成
 RESEARCH-0 + AC-1 + RUNTIME-PROD + DATA-ERASURE ─→ RESEARCH-TOOLS（原先接封闭内测，已取消，第 50 项）
-REPORT-GEN + BILL-PAYG + PAY-COMMON → PAY-WAFFO + ENTITLEMENTS + 付费墙设计定稿入库（v21，已满足） ─→ PAYWALL（第 7.4 节 N3 批次，排在 PAY-WAFFO 之后）
+REPORT-GEN + BILL-PAYG + PAY-COMMON → PAY-WAFFO + ENTITLEMENTS + 付费墙设计定稿入库（v23，已满足） ─→ PAYWALL（第 7.4 节 N3 批次，排在 PAY-WAFFO 之后）
 PAYWALL + DATA-ERASURE ─→ EXPERT-CONSULT（第 7.4 节 N3 批次）
 RESEARCH-TOOLS + Post for Me 实测和条款核对 ─→ PUBLISH-MONITOR（方向已定、方案待写；第 7.4 节 N3 批次）
 D1 范围全部完成（第 0–4 阶段：上线基础含 RESEARCH-TOOLS；FUSION-REVIEW、LIB-DOCS、VOICE、UI-A—UI-FINISH、FUSION-COMPARE；PAY-COMMON → PAY-WAFFO、PAYWALL、EXPERT-CONSULT、PUBLISH-MONITOR、LEGACY-CLOSE）─→ V3-M3 ─→ REL-1 ─→ 公开上线售卖（生产另行批准）
@@ -1133,7 +1150,7 @@ AC-4 + UI-MODEL + UI-B + UI-C + UI-FINISH + 功能对照检查 ─→ LEGACY-CLO
 | N1c 完整定位流程 | DATA-ERASURE 删除规则设计、AC-2（含 CONVERSATION-DRIVEN-CAPTURE B1/B2）、AC-3、AC-5 及其对应的 AGENT-CORE-UI 部分（本步小结卡、右侧面板和进度条）；CHAT-NATIVE-OUTPUT、REPORT-GEN（暂列，待 Owner 选定批次） | Owner 从进入到定稿完整走通并验收 |
 | N1d 推广 | AC-4 及其对应的 AGENT-CORE-UI 部分；CONTENT-CONVERSATION-DRIVEN（暂列，方案待写，待 Owner 选定批次）；DEBT-QUICK、CI-TRUST 其余部分 | 自由对话和其他 Skill 用上新工作区；检查线的任务并行，不阻塞前面的验收 |
 | N2 上线基础 | RUNTIME-PROD（含 BILL-UNIT、BILL-PAYG）、PROMPT-CACHE、PROMPT-CACHE-HISTORY、RATE-LIMIT 接线（含默认放行的 MODERATION-HOOK）、DB-BASELINE、RESEARCH-TOOLS、ENTITLEMENTS、SEC-RATELIMIT、PII-REGEX、DATA-ERASURE 实现、COST-REPORT、PAY-COMMON。2026-10-03：BILL-UNIT、PROMPT-CACHE、RATE-LIMIT、ENTITLEMENTS、MODEL-PRICING-SYNC 已完成，PROMPT-CACHE-HISTORY H1 已合并；钱路线已由 Owner 批准并行开工（第 46 项） | 上线基础完成。原定此后先做 5–10 人封闭内测（D8），2026-10-03 已取消（第 2.1 节第 50 项），按 D1 范围完成后直接公开上线售卖 |
-| N3 差异化功能 | 先 FUSION-REVIEW、LIB-DOCS、VOICE；再 UI-A、UI-MODEL、FUSION-COMPARE、UI-B、UI-C、UI-FINISH；PAY-WAFFO（含微信一次性会员）；PAYWALL（依赖 REPORT-GEN、BILL-PAYG、PAY-COMMON、PAY-WAFFO、ENTITLEMENTS 和已入库的付费墙设计定稿 v21，须在 REL-1 之前完成）；EXPERT-CONSULT（依赖 PAYWALL、DATA-ERASURE，须在 REL-1 之前完成）；PUBLISH-MONITOR（方向已定、方案待写；依赖 RESEARCH-TOOLS 和 Post for Me 实测、条款核对，须在 REL-1 之前完成，D1 范围变更） | 差异化功能完成（对比模式对钱路核心改动最大，放在后面） |
+| N3 差异化功能 | 先 FUSION-REVIEW、LIB-DOCS、VOICE；再 UI-A、UI-MODEL、FUSION-COMPARE、UI-B、UI-C、UI-FINISH；PAY-WAFFO（含微信一次性会员）；PAYWALL（依赖 REPORT-GEN、BILL-PAYG、PAY-COMMON、PAY-WAFFO、ENTITLEMENTS 和已入库的付费墙设计定稿 v23，须在 REL-1 之前完成）；EXPERT-CONSULT（依赖 PAYWALL、DATA-ERASURE，须在 REL-1 之前完成）；PUBLISH-MONITOR（方向已定、方案待写；依赖 RESEARCH-TOOLS 和 Post for Me 实测、条款核对，须在 REL-1 之前完成，D1 范围变更） | 差异化功能完成（对比模式对钱路核心改动最大，放在后面） |
 | N4 收口 | LEGACY-CLOSE、V3-M3；公开上线前请 Owner 决定 MODERATION 正式实现时间 | 完整验收；REL-1 和生产另行批准 |
 
 每批由 Owner 选定后开工，批次内由 Agent 自主排序、测试、修复，完成后停下，不自动开始下一批（AGENTS 第 5 节）。
@@ -1157,7 +1174,7 @@ AC-4 + UI-MODEL + UI-B + UI-C + UI-FINISH + 功能对照检查 ─→ LEGACY-CLO
 | 隐私条款、服务条款和数据使用政策 | 由 Owner 用第三方专业软件生成；规划只规定产品行为，不规定条款文字 |
 | Stripe 直接收款的税务责任 | Stripe 是备用渠道（D17）；2026-10-03 定为上线不用 Stripe 收款（第 50 项）。Stripe 直接收款时 Graylum 是卖家，这和通过 Waffo（MoR）销售不同；税务责任要在第一次切换到 Stripe 之前确认 |
 | 第三方搜索服务 | TikHub、Parallel、Firecrawl 已注册并在 RESEARCH-0 中实测。等网站用户使用量大了，再由 Owner 向三家申请企业定制授权（第 3.7 节表格）；需要时向 TikHub 购买更高的每秒请求数；定稿隐私条款时一并咨询抓取类数据的合规问题 |
-| 定价配置与积分产品复核（2026-10-01，2026-10-03 更新） | q=100 已决定；默认 m 2026-10-03 改为 6（第 50 项），staging 现为 m=3（第 39 项），改配置须另获批准。订阅和积分包比例已定（第 50 项）；2026-10-04 实际售价已定（Pro $29、Gold $69、年付 $279 / $621、Gold 新用户首月 $49、创始会员首年 $496/年、续费不写死，第 51 项）；套餐价格和每月积分已定（Pro 3,480、Gold 8,970），需要单独批准的只是实际写入配置；真正待定的只有开户赠送积分（Owner 用当前导师模型亲自体验后按第 50 项公式定）、$9.90 以外的积分包档位（积分包会员折扣已定为 Pro 9.5 折、Gold 9 折，第 51 项）；邀请奖励 50/30 按 m=6 复核；产品数值不因 q/m 变化自动改；面向用户的计费说明要按名义费用和"有分时价的线路按最高时段标价计费"写（第 41 项，条款文字由 Owner 处理） |
+| 定价配置与积分产品复核（2026-10-01，2026-10-03 更新） | q=100 已决定；默认 m 2026-10-03 改为 6（第 50 项），staging 现为 m=3（第 39 项），改配置须另获批准。订阅和积分包比例已定（第 50 项）；2026-10-04 实际售价已定（Pro $29、Gold $69、年付 $279 / $621、Gold 新用户首月 $49、创始会员首年 $496/年、续费不写死，第 51 项）；套餐价格和每月积分已定（Pro 3,480、Gold 8,970），需要单独批准的只是实际写入配置；开户赠送 500 积分和积分包三档已先定（第 51 项，记录 S、T；积分包会员折扣 Pro 9.5 折、Gold 9 折），实测后可能调整；邀请奖励 50/30 按 m=6 复核；产品数值不因 q/m 变化自动改；面向用户的计费说明要按名义费用和"有分时价的线路按最高时段标价计费"写（第 41 项，条款文字由 Owner 处理） |
 | 正式环境 Upstash（2026-10-01） | staging 已配置；正式环境在公开上线前配置（封闭内测已取消，第 50 项），核对容量、变量名和故障拒绝路径（第 30 项） |
 | Vercel Pro（2026-10-01） | Owner 已承诺正式运营升级；上线前完成套餐与运行时预算核对，Hobby 300 秒仅约束 staging（第 28 项） |
 | staging 服务商回调地址（2026-10-01） | 旧域名已删除（第 37 项）；Stripe / Waffo 沙箱回调地址、Supabase Site URL 和邮件 Redirect URLs 是否已不再指向旧域名，待 Owner 自行检查确认（#605 列出了待核对位置，没有读取外部配置） |
@@ -1354,10 +1371,10 @@ Owner 于 2026-09-27 确认 D1–D17（D6 在 Fable 评估后改为不含 PDF；
 | 正式环境是否强制"数据不用于训练"（RUNTIME-PROD 第 ⑦ 项、第 2.1 节第 9 项的举例、VOICE 的前置条件） | Owner 2026-09-28 表示，除非违反 GDPR 等法律，请求不需要强制 `data_collection: deny`；合法性尚未核实，规划里仍是"强制" | RUNTIME-PROD 开工前 |
 | 删除规则 E5"付费默认不退款、Owner 逐笔批准手动退款"与现有退款代码和 v11 退款规则（REFUND-1B 等）的衔接 | **已定**（Owner 2026-10-03，第 2.1 节第 47 项）：PAY-COMMON 方案 #608 第 8 节 P1；退款功能按 PAY-COMMON 实施调整，积分包人工退款的执行能力另行设计 | 已定；实施随 PAY-COMMON |
 | staging 服务商回调地址（2026-10-01） | 旧域名已删除（第 37 项）；Stripe / Waffo 沙箱回调和 Supabase Site URL 待 Owner 自行检查确认 | 支付或邮件回调相关的 staging 验证前（建议） |
-| 上线前配置与产品数值复核（2026-10-01，2026-10-03 更新） | 正式环境 Upstash 上线前配置，Vercel Pro 已决定升级但仍待执行；staging 的 q=100/m=3 已按 Owner 批准修改（第 39 项）；套餐价格和每月积分已定（Pro $29 / 3,480、Gold $69 / 8,970，年付 $279 / $621，第 51 项），积分包比例已定（第 50 项），需要单独批准的只是实际写入配置；积分包会员折扣已定（Pro 9.5 折、Gold 9 折，第 51 项）；真正待定的只有开户赠送积分和 $9.90 以外的积分包档位（见下方"定价占位值"），邀请奖励 50/30 按 m=6 复核 | 具体执行前批准；上线前完成（第 7.6 节） |
+| 上线前配置与产品数值复核（2026-10-01，2026-10-03 更新） | 正式环境 Upstash 上线前配置，Vercel Pro 已决定升级但仍待执行；staging 的 q=100/m=3 已按 Owner 批准修改（第 39 项）；套餐价格和每月积分已定（Pro $29 / 3,480、Gold $69 / 8,970，年付 $279 / $621，第 51 项），积分包比例已定（第 50 项），需要单独批准的只是实际写入配置；积分包会员折扣已定（Pro 9.5 折、Gold 9 折，第 51 项）；开户赠送 500 积分和积分包三档已先定（第 51 项，实测后可能调整），邀请奖励 50/30 按 m=6 复核 | 具体执行前批准；上线前完成（第 7.6 节） |
 | 对话原生体验的续写次数（2026-10-03） | #604 方案第一版推荐每次回答最多自动续写 3 次、单次上限保持 8192；方案还在审查 | #604 审查干净后由总控交 Owner |
-| 付费墙视觉风格（2026-10-04） | Owner 认为现有 8 个界面的视觉要改，将自行调整预览版（[记录 N](https://github.com/Crnobog9527/GraylumAI_vercel/pull/618#issuecomment-5972956845)）；Owner 定稿的 v21 已于 2026-10-04 导出入库（[`docs/launch/design/paywall/`](design/paywall/README.md)，第 51 项） | 已定稿入库；README 列出的待定事项在 PAYWALL 实施时逐项定 |
-| 定价占位值（2026-10-04） | 注册赠送积分、积分包 $9.90 以外的档位、创始人寄语仍待定（第 51 项）；积分包会员折扣已定为 Pro 9.5 折、Gold 9 折（[记录 Q](https://github.com/Crnobog9527/GraylumAI_vercel/pull/618#issuecomment-5980762284)） | 前两项 PAYWALL 实施时按实测定，配置修改前批准；寄语由 Owner 定 |
+| 付费墙视觉风格（2026-10-04） | Owner 认为现有 8 个界面的视觉要改，将自行调整预览版（[记录 N](https://github.com/Crnobog9527/GraylumAI_vercel/pull/618#issuecomment-5972956845)）；Owner 定稿的 v23 已于 2026-10-04 导出入库（[`docs/launch/design/paywall/`](design/paywall/README.md)，第 51 项） | 已定稿入库；README 列出的待定事项在 PAYWALL 实施时逐项定 |
+| 定价占位值（2026-10-04） | 注册赠送 500 积分、积分包三档和会员价已先定（第 51 项，[记录 S](https://github.com/Crnobog9527/GraylumAI_vercel/pull/618#issuecomment-5980831854)、[记录 T](https://github.com/Crnobog9527/GraylumAI_vercel/pull/618#issuecomment-5980843167)），实测后可能调整；只剩创始人寄语待定 | 寄语由 Owner 定；赠送和积分包的配置写入（含 0151 的 high 迁移）执行前批准 |
 | Pro 中途升 Gold 的收费规则（2026-10-04） | **已定**（[记录 Q](https://github.com/Crnobog9527/GraylumAI_vercel/pull/618#issuecomment-5980762284)）：不退差价，补发 8,970 积分并立即升级为 Gold 权益（第 51 项） | 已定；计费周期怎么衔接（是否重置续费日）由 PAY-WAFFO 方案提出、Owner 批准后实施 |
 | 工作室版价格和权益（2026-10-04） | 上线只放"联系我们"；10 个品牌起、5 位成员起，可以按需增加席位；不定公开价格，按用量报价（[记录 Q](https://github.com/Crnobog9527/GraylumAI_vercel/pull/618#issuecomment-5980762284)）；团队功能的具体权益未定 | 开发团队功能时 |
 | 限流是否按档位放宽（待观察，2026-10-04） | 每天 200 条新消息、600 次调用，所有档位一样；可能卡住重度付费用户（[记录 B](https://github.com/Crnobog9527/GraylumAI_vercel/pull/618#issuecomment-5971895597)） | 上线后看数据再定，现在不改 |

diff --git a/docs/launch/design/paywall/README.md b/docs/launch/design/paywall/README.md
@@ -1,4 +1,4 @@
-# 付费墙设计定稿（v21）
+# 付费墙设计定稿（v23）
 
 PAYWALL 的设计依据。规划里的位置见 [MASTER_PLAN](../../MASTER_PLAN.md) 第 2.1 节第 51 项和第 7.1 节 PAYWALL 行。
 这里的文件只是设计留档，不是产品代码，也不改变 staging 或正式环境的任何配置。
@@ -7,17 +7,20 @@ PAYWALL 的设计依据。规划里的位置见 [MASTER_PLAN](../../MASTER_PLAN.
 
 - 来源：Owner 在定价策略审阅窗口维护的 claude.ai artifact，ID `MW9Ja3xTfLNbzraTudi2X7`
   （私有，仓库外打不开，所以导出到这里）。
-- 版本：Owner 定稿的 v21，即该 artifact 的第 32 版，版本号 `1791121307-3d47`；页面自注
-  "唯一版本 v21 · 更新于 2026-10-04"。
+- 版本：Owner 定稿的 v23，即该 artifact 的第 34 版，版本号 `1791122683-97ab`；页面自注
+  "唯一版本 v23 · 更新于 2026-10-04"。v23 依据 #618 记录 S、T（评论 5980831854、5980843167）：
+  积分包三档、会员价向下取整到 $0.10、注册赠送 500 积分。最早导出的是 v21（第 32 版，
+  `1791121307-3d47`）；v22（第 33 版，`1791122586-5694`）没有单独入库。
 - 导出：2026-10-04，用 artifact 读取接口原样取回，未做任何修改。
 
 ## 文件
 
 | 文件 | 内容 |
 | --- | --- |
-| [paywall-final-v21.html](paywall-final-v21.html) | 定稿原文。单文件静态页，浏览器直接打开；字体从 Google Fonts 加载，断网时退回系统字体。页面下方的"全部已定""10-04 晚新定""实现说明"三节是设计稿自带的说明 |
+| [paywall-final-v23.html](paywall-final-v23.html) | 定稿原文。单文件静态页，浏览器直接打开；字体从 Google Fonts 加载，断网时退回系统字体。页面下方的"全部已定""10-04 晚新定""实现说明"三节是设计稿自带的说明 |
 | [screenshots/](screenshots/) | 9 个场景各两张：桌面（1360×920 产品画框）和手机（390×844 画框），文件名 `scene<编号>-<场景>-<desktop/mobile>.png` |
 
+**截图来自 v21，v22、v23 只改了场景 3（充值）和价格页，这两个场景的截图按 v23 重拍。**
 截图用本机无头 Chromium 打开静态文件、按页面默认演示选项拍摄（没买过 Gold、创始名额已加入 13 位、
 "报告评审"开放、场景 3 为 Pro 会员、场景 7 为 Pro 3/3），只拍每个场景的第一屏。截图只给设计稿留档，
 不是产品验收；其他演示选项和滚动后的内容以 HTML 为准。
@@ -53,8 +56,7 @@ PAYWALL 的设计依据。规划里的位置见 [MASTER_PLAN](../../MASTER_PLAN.
 以下内容在设计稿里是占位或还没有依据，实施时不能当作已定：
 
 - 创始人寄语：页面标着"寄语待定"。
-- 注册赠送积分的数量。
-- $9.90 以外的积分包档位（页面里的 $19.90、$49.90 只是占位）。
+- 注册赠送 500 积分和积分包三档是"先定"：开发完、实测积分消耗后 Owner 可能调整。
 - 常见问题里的积分用量："[实测后补]"。
 - 工作室版的正式价格。
 - 创始会员展示墙：必须先有"愿意公开"的选项，用户勾选后才能展示。
